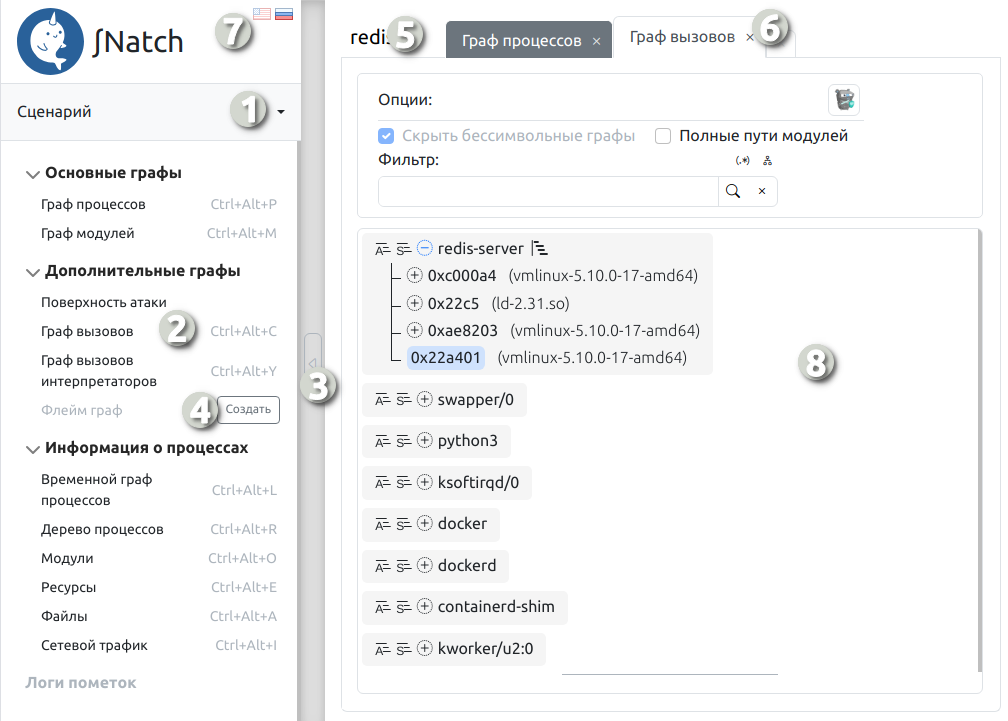
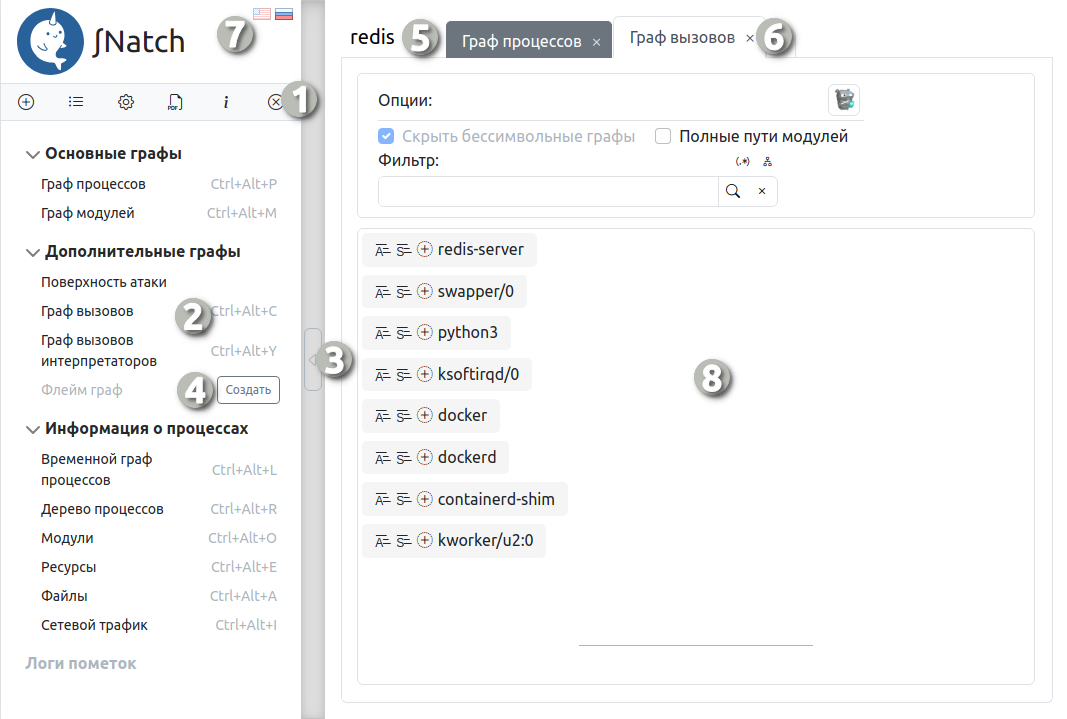
snatch: updated main menu info

diff --git a/docs/9_snatch.md b/docs/9_snatch.md
@@ -34,7 +34,7 @@
 
 На данном рисунке показано окно *SNatch*, где цифрами обозначены основные элементы интерфейса:
 
-1. Кнопка для вызова главного меню, из которого можно создать новый сценарий, запустить ряд функций, относящихся к открытому сценарию, и открыть существующий сценарий.
+1. Панель главного меню, из которой можно создать новый сценарий, открыть список существующих, открыть настройки, выполнить экспорт сценария в PDF, открыть информацию о сценарии и закрыть сценарий.
 2. Меню открытого сценария. Содержит список доступных данных для сценария (таких как: граф процессов, граф модулей, дерево процессов, граф вызовов и т.д.)
 3. Кнопка для сворачивания меню сценария.
 4. Кнопка для генерации дополнительных графов для сценария (граф вызовов, граф вызовов интерпретаторов и флейм граф).
@@ -45,12 +45,15 @@
 
 ### 9.3.1. Главное меню
 
-Главное меню предоставляет доступ к созданию нового сценария, настройкам, экспорту открытого сценария в .pdf и информации о сценарии.
-Можно закрыть текущий сценарий, тогда будет осуществлен переход ко вкладке "список сценариев"
-Также здесь отображается список существующих сценариев, открытие которых происходит по нажатию на имя, а удаление -- по нажатию на
-кнопку с изображением корзины рядом с именем (для удаления всех сценариев можно нажать на изображение корзины рядом с заголовком *Сценарии*).
-
 <img src=images/snatch/snatch_menu.png><figcaption>_Главное меню_</figcaption>
+
+Кнопки главного меню выполняют следующие функции:
+1. Создание нового сценария.
+2. Открытие списка существующих сценариев (недоступно при отсутствии сценариев).
+3. Настройки.
+4. Экспорт в PDF аналитик открытого проекта.
+5. Информация об открытом проекте.
+6. Закрытие текущего проекта.
 
 
 #### 9.3.1.1. Создание сценария
